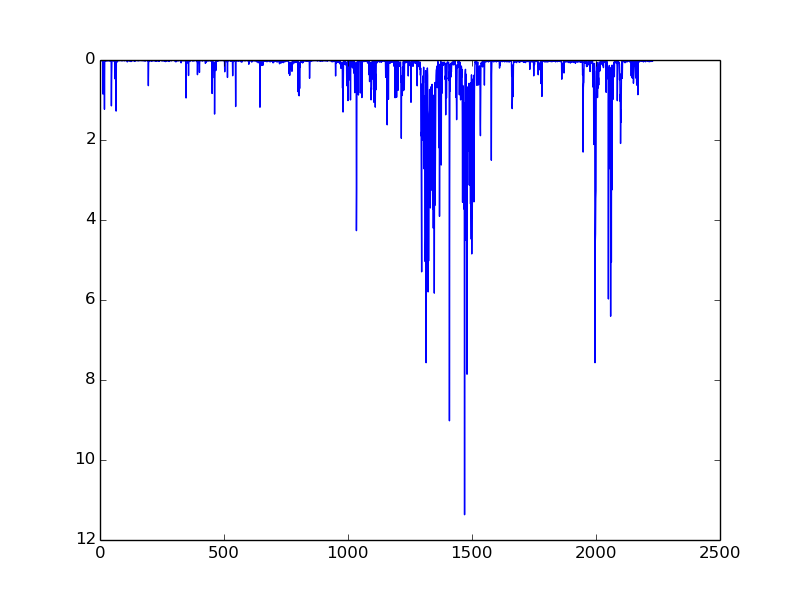
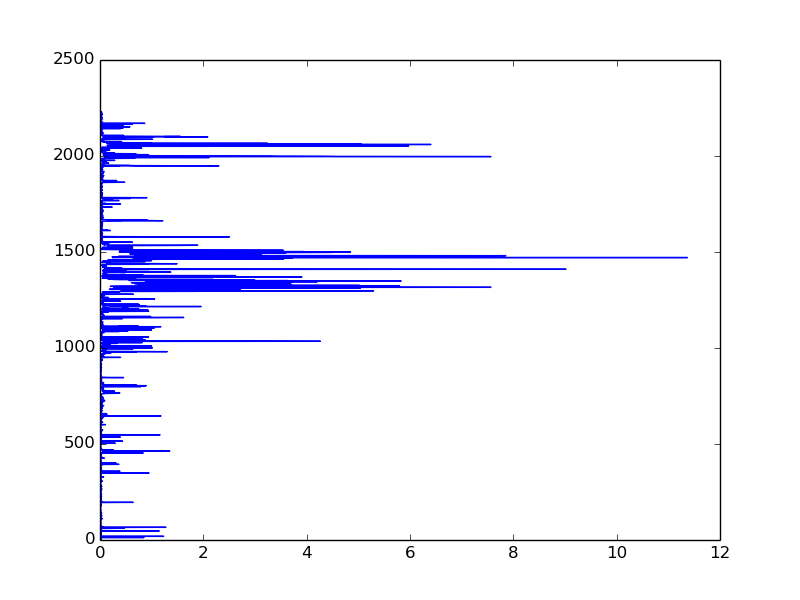
plot again

diff --git a/SdA2.py b/SdA2.py
@@ -677,11 +677,14 @@ def test_SdA(nins,nouts,hidden_layer_sizes,corruption_levels,
 
     plt.figure(0)
     #plt.plot(normal_cost,color='r')
-    y = [i for i in xrange(2265)]
+    y = [i for i in xrange(len(normal_cost)+1)]
     y = y[1:]
     print (len(y))
     print (normal_cost)
-    plt.plot(normal_cost)
-    plt.gca().invert_yaxis()
+    #y = numpy.array(y)
+    #y = y.reshape(2264,)
+    #normal_cost = numpy.array(normal_cost)
+    #normal_cost = normal_cost.reshape(2264,)
+    plt.plot(normal_cost,y)
     plt.savefig('recon_error_distribution.png')
     
